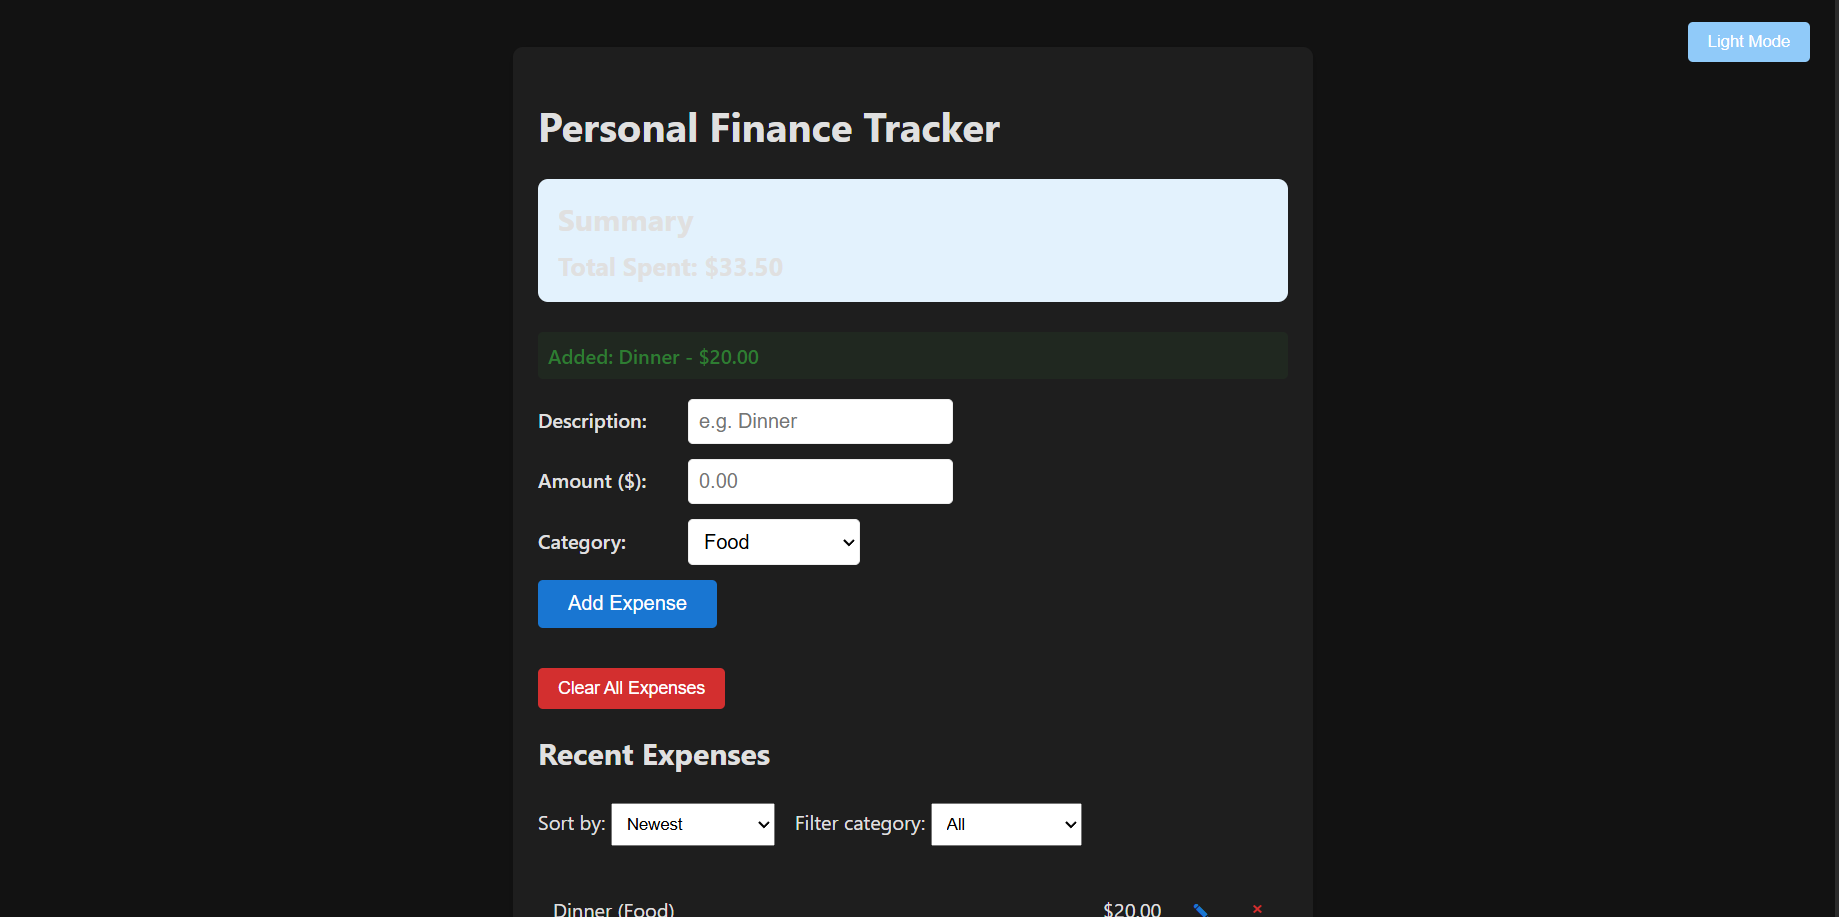
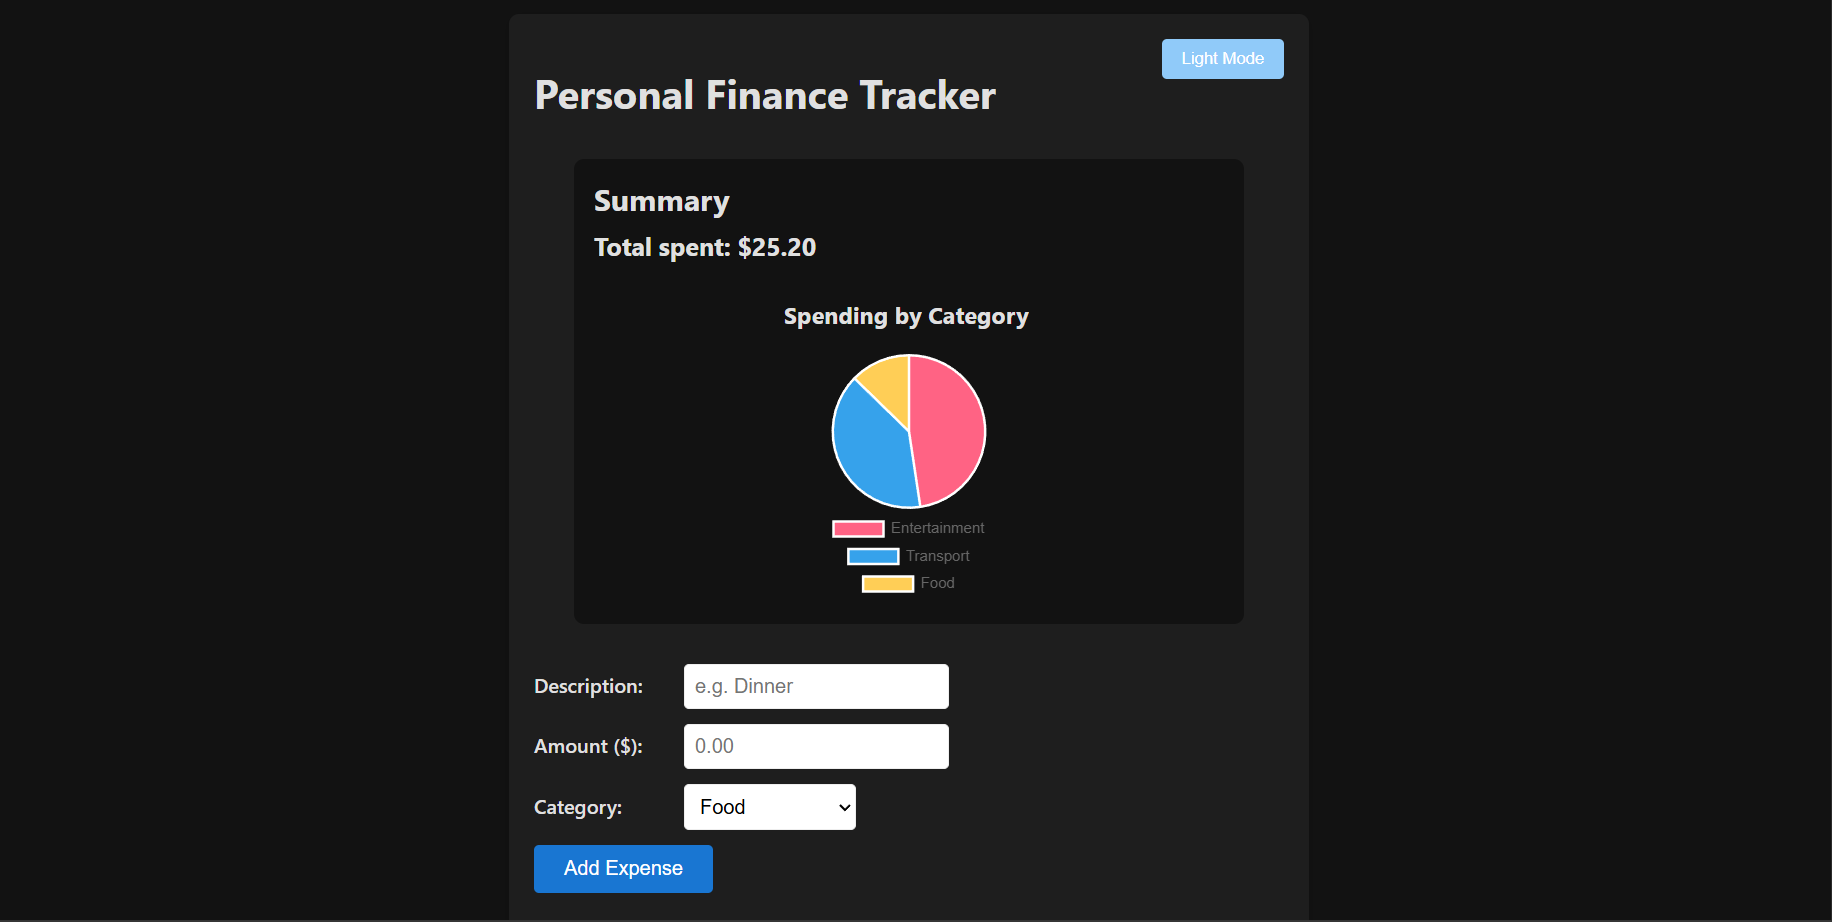
Extracted Summary component (total + chart) for cleaner App.tsx

diff --git a/src/App.tsx b/src/App.tsx
@@ -2,7 +2,7 @@ import  { useEffect, useRef, useState } from "react";
 
 import ExpenseList from "./components/ExpenseList";
 import ExpenseForm from "./components/ExpenseForm";
-import CategoryChart from "./components/CategoryChart";
+import Summary from "./components/Summary";
 
 //Same type as above 
 type Expense ={
@@ -157,18 +157,12 @@ return (
        
       <h1>Personal Finance Tracker</h1>
 
-      <div style={{ 
-          marginBottom: '24px', 
-          padding: '16px',
-          background: '#e3f2fd',
-          borderRadius: '8px'
-      }}>
-        <h2 style={{ margin: '0 0 8px 0'}}>Summary</h2>
-        <p style={{ fontSize: '20px', fontWeight: 'bold', margin: '0'}}>
-          Total Spent: ${totalSpent.toFixed(2)}
-        </p>
-      </div>
+      <Summary 
+        totalSpent={totalSpent}
+        categorySummary={filteredCategorySummary || categorySummary}
+        />
 
+  
       <ExpenseForm
         onAddExpense={(newExp) => {
           const expenseToAdd = {
@@ -178,10 +172,10 @@ return (
           setExpenses([...expenses, expenseToAdd]);
         }}
         />
-      
-      
+    
      <button onClick={handleClearAll} className="clear-button">Clear All Expenses</button>
       
+      {/*  */}
       <h2>Recent Expenses</h2>
         <div style={{ 
                 margin: '24px 0', display: 'flex', gap: '16px', flexWrap: 'wrap'
@@ -220,12 +214,7 @@ return (
                     onDelete={handleDelete}
                     onEdit={handleEdit} />
 
-      {Object.keys(categorySummary).length > 0 && (
-        <div style={{ marginTop: '32px'}}>
-          <h3>By Category</h3>
-              <CategoryChart categorySummary={filteredCategorySummary} />
-        </div>
-      )}
+      
       </div>
 
       {showUndoToast && lastAction && (

diff --git a/src/index.scss b/src/index.scss
@@ -16,6 +16,7 @@ $container-width: 600px;
     --success: #2e7d32;
     --danger: #d32f2f;
     --light-text: #777;
+    --summary: #e3f2fd;
 }
 [data-theme="dark"] {
   --bg-color: #121212;
@@ -26,6 +27,7 @@ $container-width: 600px;
   --success: #81c784;
   --danger: #ef5350;
   --light-text: #aaa;
+  --summary: var(--bg-color);
 }
 body {
     margin: 0;
@@ -184,7 +186,16 @@ button[aria-label="delete"] { // or just target the button if you add aria-label
     cursor: pointer;
     font-size: 18px;
 }
+//summary
+.summary {
+    margin: 32px;
+    padding: 16px;
+    border-radius: 8px ;
+    background: var(--summary);
+}
 
+                
+       
 //Add animation
 .expense-item {
     animation: fadeIn 0.5s ease-in-out;

diff --git a/src/components/Summary.tsx b/src/components/Summary.tsx
@@ -1,0 +1,23 @@
+
+import CategoryChart from "./CategoryChart";
+
+interface SummaryProps {
+    totalSpent: number;
+    categorySummary: Record<string, number>;
+
+}
+function Summary({ totalSpent, categorySummary }: SummaryProps) {
+    return (
+        <div 
+            className="summary"
+            
+            >
+                <h2 style={{ margin: '0 0 8px 0'}}>Summary</h2>
+                <p style={{ fontSize: '20px', fontWeight: 'bold', margin: '0'}}>
+                    Total spent: ${totalSpent.toFixed(2)}
+                </p>
+                <CategoryChart categorySummary={categorySummary} />
+            </div>
+    )
+}
+export default Summary;

diff --git a/src/components/CategoryChart.tsx b/src/components/CategoryChart.tsx
@@ -62,7 +62,7 @@ function CategoryChart({ categorySummary }: CategoryChartProps) {
         },
     };
     return (
-        <div style={{ marginTop: '32px', maxWidth: '400px', marginLeft: 'auto', marginRight: 'auto'}}>
+        <div style={{ marginTop: '30px', maxWidth: '200px', marginLeft: 'auto', marginRight: 'auto'}}>
             <h3 > Spending by Category</h3>
             <Pie data={data} options={options} />
         </div>

diff --git a/README.md b/README.md
@@ -36,4 +36,5 @@ For handover: Code is modular (separate components). Easy to extend with backend
 
 ## 📸 UI Preview 
 ![Expense Form Screenshot](./assets/expense-form.png)
-![Expense Form Screenshot](./assets/Recent_expenses.png)
+![Expense Form Screenshot](./assets/sort_filter_edit_delete.png)
+![Expense Form Screenshot](./assets/undo.png)
